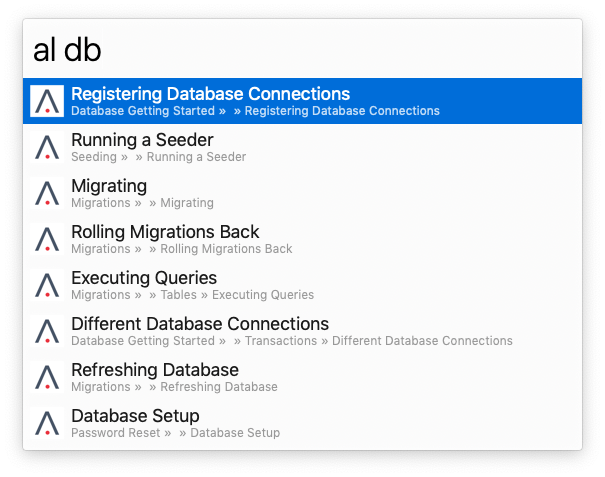
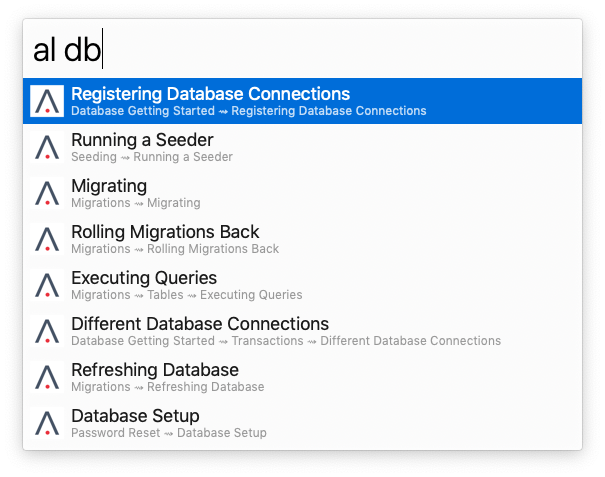
Release 1.0.1

diff --git a/alpas.php b/alpas.php
@@ -12,27 +12,22 @@ $workflow = new Workflow;
 $parsedown = new Parsedown;
 $algolia = new Algolia('BH4D9OD16A', 'e017bb0b99fe3193f750d48a4e7d441e');
 
-AlgoliaUserAgent::addSuffixUserAgentSegment('Alpas Docs Alfred Workflow', '1.0.0');
+AlgoliaUserAgent::addSuffixUserAgentSegment('Alpas Docs Alfred Workflow', '1.0.1');
 
 $index = $algolia->initIndex('alpas');
 $search = $index->search($query);
 $results = $search['hits'];
 
-$subtextSupported = $subtext === '0' || $subtext === '2';
-
 if (empty($results)) {
-    if (empty($results)) {
-        $workflow->result()
-                 ->title('No matches')
-                 ->icon('google.png')
-                 ->subtitle("No match found in the docs. Search Google for: \"Alpas+{$query}\"")
-                 ->arg("https://www.google.com/search?q=alpas+{$query}")
-                 ->quicklookurl("https://www.google.com/search?q=alpas+{$query}")
-                 ->valid(true);
+    $workflow->result()
+             ->title('No matches')
+             ->icon('google.png')
+             ->subtitle("No match found in the docs. Search Google for: \"Alpas+{$query}\"")
+             ->arg("https://www.google.com/search?q=alpas+{$query}")
+             ->quicklookurl("https://www.google.com/search?q=alpas+{$query}")
+             ->valid(true);
 
-        echo $workflow->output();
-        exit;
-    }
+    echo $workflow->output();
     exit;
 }
 
@@ -47,7 +42,10 @@ foreach ($results as $hit) {
     $subtitle = $hit['hierarchy']['lvl0'];
     while ($currentLvl < $highestLvl) {
         $currentLvl = $currentLvl + 1;
-        $subtitle = $subtitle.' » '.$hit['hierarchy']['lvl'.$currentLvl];
+        $lvl = $hit['hierarchy']['lvl'.$currentLvl];
+        if (!empty($lvl)) {
+            $subtitle = $subtitle.' ⇝ '.$lvl;
+        }
     }
 
     $workflow->result()
